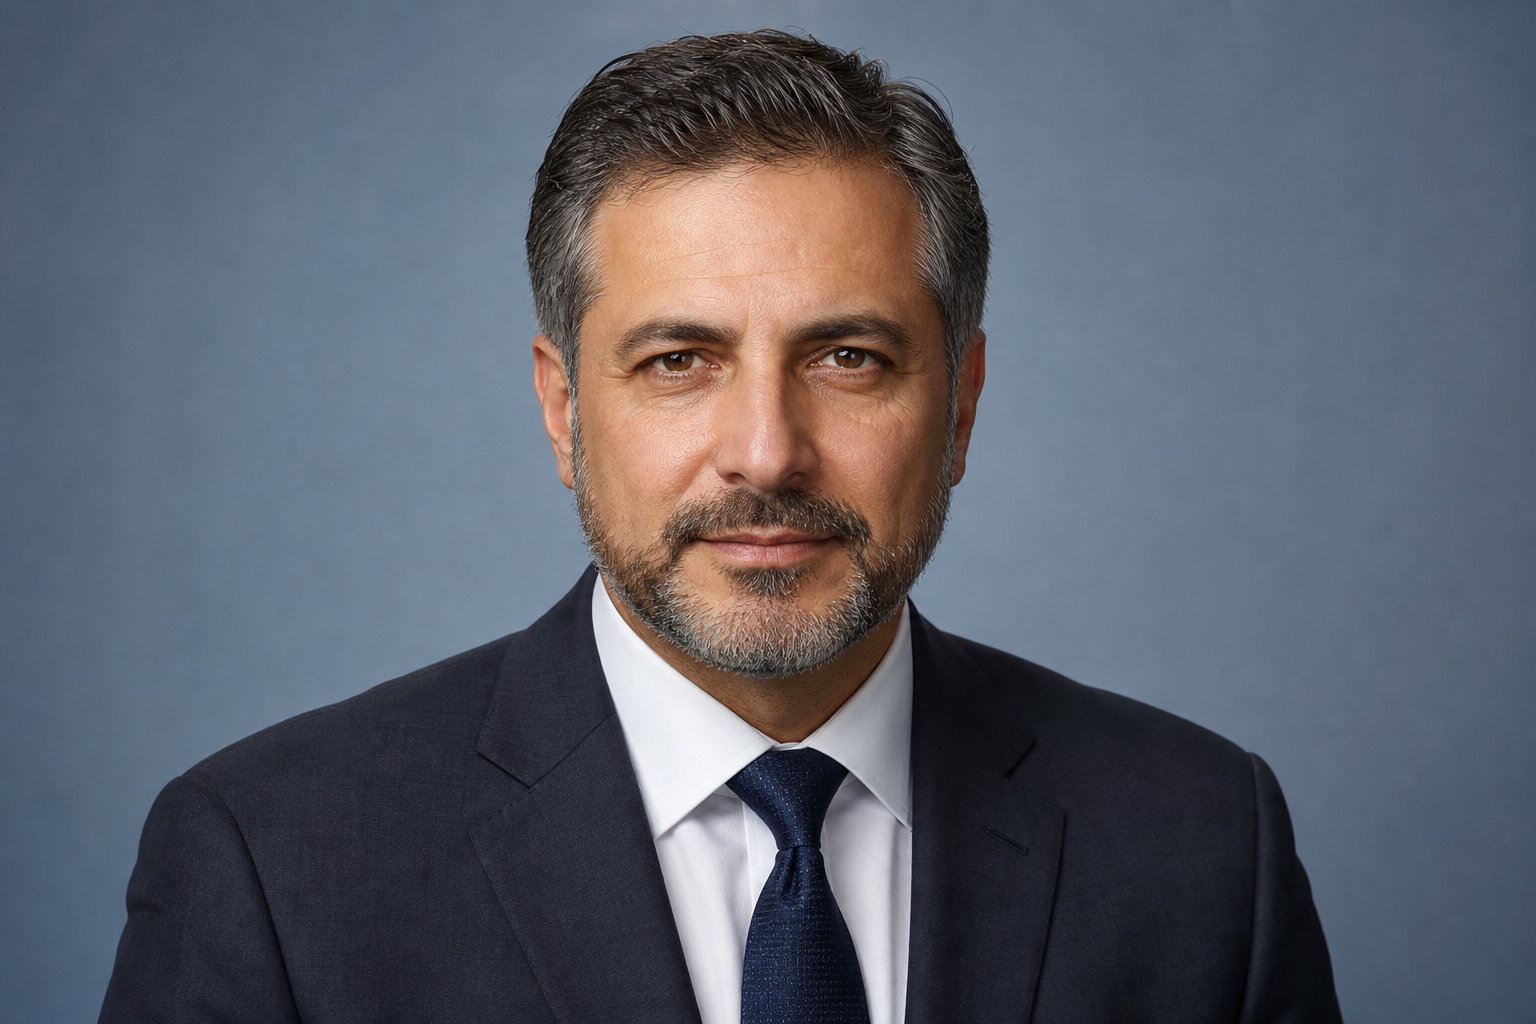
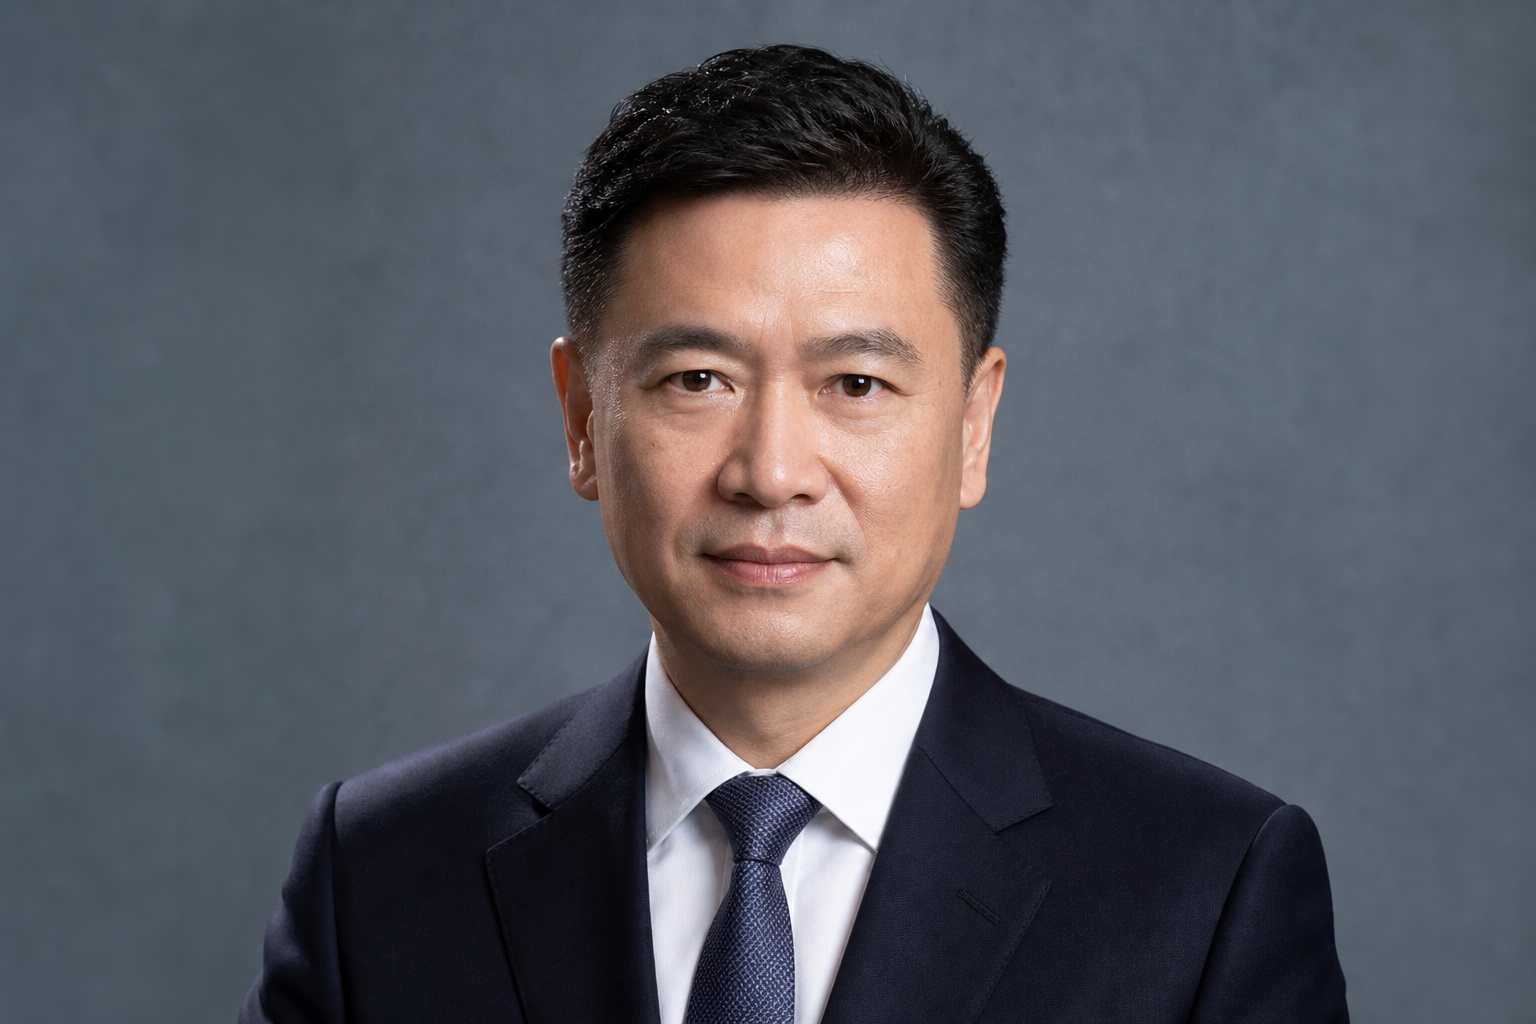
修复虚拟面试官：中文真人头像 + 稳定语音
替换为中国真人面试官照片，首屏直接显示照片并增强嘴部动效；关闭前端不稳定的流式 PCM 播放，统一使用稳定在线 TTS 避免噪声和音色切换。

diff --git a/面试页.html b/面试页.html
@@ -64,9 +64,18 @@
     @keyframes ivBreathe { 0%,100%{ transform:translateY(0) scale(1);} 50%{ transform:translateY(1.4px) scale(1.014);} }
     @keyframes ivNod { 0%,100%{ transform:translateY(0) rotate(0);} 42%{ transform:translateY(2.2px) rotate(.7deg);} 72%{ transform:translateY(.6px) rotate(-.5deg);} }
     @media (prefers-reduced-motion: reduce){ #ivBody, #ivAvatar.iv-speaking #ivHeadTop { animation:none; } }
-    /* 照片头像：呼吸在外层，说话时的“下颌律动”用内层 img 的 scaleY（音量驱动），两层叠加不冲突 */
+    /* 照片头像：呼吸在外层；嘴部叠层负责明显开合，避免整张照片轻微缩放导致“嘴没动”的错觉 */
     #ivPhotoWrap { transform-origin:50% 60%; animation: ivPhotoBreathe 4.6s ease-in-out infinite; will-change:transform; }
-    #ivPhoto { transform-origin:50% 18%; transition:transform .06s linear, filter .5s ease; }
+    #ivPhoto { transform-origin:50% 18%; transition:filter .5s ease; }
+    #ivMouthOverlay {
+      position:absolute; left:50%; top:51.5%; width:12.5%; height:4.2%;
+      transform:translate(-50%,-50%) scaleY(.08); transform-origin:50% 50%;
+      border-radius:999px; background:rgba(80,24,28,.62);
+      box-shadow:0 0 0 1px rgba(255,255,255,.16) inset, 0 2px 6px rgba(0,0,0,.12);
+      opacity:0; mix-blend-mode:multiply; transition:opacity .12s ease, transform .05s linear;
+      pointer-events:none;
+    }
+    #ivStageBox.iv-photo-speaking #ivMouthOverlay { opacity:.55; }
     #ivStageBox.iv-photo-thinking #ivPhoto { filter:brightness(.94) saturate(.92); }
     @keyframes ivPhotoBreathe { 0%,100%{ transform:translateY(0) scale(1.0);} 50%{ transform:translateY(-1px) scale(1.012);} }
     @media (prefers-reduced-motion: reduce){ #ivPhotoWrap { animation:none; } }
@@ -109,11 +118,12 @@
     <div class="relative flex flex-col items-center">
       <div id="speakerRing" class="absolute inset-0 rounded-full bg-indigo/20 speaking-ring hidden"></div>
       <div id="ivStageBox" class="interviewer-avatar relative rounded-full shadow-softlg border border-white/80 overflow-hidden">
-        <div id="ivPhotoWrap" class="absolute inset-0 hidden">
-          <img id="ivPhoto" alt="AI 面试官" class="w-full h-full object-cover" style="object-position:center 28%">
+        <div id="ivPhotoWrap" class="absolute inset-0">
+          <img id="ivPhoto" src="assets/interviewer_mentor.png" alt="AI 面试官" class="w-full h-full object-cover" style="object-position:center 28%">
           <div id="ivPhotoGlow" class="absolute inset-x-0 bottom-0 h-1/3 pointer-events-none" style="opacity:0;background:radial-gradient(ellipse at 50% 100%, rgba(99,102,241,.45), transparent 70%)"></div>
+          <div id="ivMouthOverlay"></div>
         </div>
-        <svg id="ivAvatar" viewBox="0 0 240 240" class="w-full h-full" aria-label="AI 面试官">
+        <svg id="ivAvatar" viewBox="0 0 240 240" class="w-full h-full" aria-label="AI 面试官" style="display:none">
           <defs>
             <clipPath id="ivClip"><circle cx="120" cy="120" r="120"/></clipPath>
             <linearGradient id="ivBg" x1="0" y1="0" x2="0" y2="1">
@@ -552,7 +562,7 @@ ${roleGuide ? roleGuide + '\n' : ''}
       const lidL=document.getElementById('ivLidL'), lidR=document.getElementById('ivLidR');
       const glow=document.getElementById('ivGlow');
       const box=document.getElementById('ivStageBox');
-      const photoWrap=document.getElementById('ivPhotoWrap'), photoImg=document.getElementById('ivPhoto'), photoGlow=document.getElementById('ivPhotoGlow');
+      const photoWrap=document.getElementById('ivPhotoWrap'), photoImg=document.getElementById('ivPhoto'), photoGlow=document.getElementById('ivPhotoGlow'), photoMouth=document.getElementById('ivMouthOverlay');
       const baseL={x:100,y:105}, baseR={x:140,y:105};
       let talkRAF=0, blinkTimer=0, gazeTimer=0, mode='idle';
       let usingPhoto=false, lastLevel=0, lastLevelTs=0;
@@ -561,15 +571,19 @@ ${roleGuide ? roleGuide + '\n' : ''}
       (function loadPhoto(){
         try{
           const key=(typeof roundKey!=='undefined' && ['mentor','leader','director','hr'].includes(roundKey)) ? roundKey : 'mentor';
-          photoImg.onload=()=>{ usingPhoto=true; photoWrap.classList.remove('hidden'); root.classList.add('opacity-0'); root.style.display='none'; };
-          photoImg.onerror=()=>{ usingPhoto=false; photoWrap.classList.add('hidden'); };
-          photoImg.src='assets/interviewer_'+key+'.png';
+          const src='assets/interviewer_'+key+'.png';
+          usingPhoto=true;
+          photoWrap.classList.remove('hidden');
+          root.style.display='none';
+          photoImg.onload=()=>{ usingPhoto=true; photoWrap.classList.remove('hidden'); root.style.display='none'; };
+          photoImg.onerror=()=>{ usingPhoto=false; photoWrap.classList.add('hidden'); root.style.display='block'; };
+          if(!photoImg.getAttribute('src') || !photoImg.getAttribute('src').includes('interviewer_'+key+'.png')) photoImg.src=src;
         }catch(e){ usingPhoto=false; }
       })();
 
       const setMouth=v=>{ if(mouth) mouth.style.transform='scaleY('+v.toFixed(3)+')'; };
-      const setPhotoTalk=v=>{ // v:0..1 → 轻微下颌起伏 + 嘴部柔光
-        if(photoImg) photoImg.style.transform='scaleY('+(1+v*0.018).toFixed(4)+')';
+      const setPhotoTalk=v=>{ // v:0..1 → 明显嘴部开合 + 轻微柔光，不再缩放整张照片
+        if(photoMouth) photoMouth.style.transform='translate(-50%,-50%) scaleY('+(0.12+v*1.65).toFixed(3)+')';
         if(photoGlow) photoGlow.style.opacity=(v*0.7).toFixed(3);
       };
       const setPupils=(dx,dy)=>{
@@ -607,6 +621,7 @@ ${roleGuide ? roleGuide + '\n' : ''}
         mode=m;
         root.classList.toggle('iv-speaking', m==='speaking');
         if(box) box.classList.toggle('iv-photo-thinking', m==='thinking');
+        if(box) box.classList.toggle('iv-photo-speaking', m==='speaking' && usingPhoto);
         if(glow){ glow.style.transition='opacity .5s ease'; glow.style.opacity = (m==='thinking') ? '0.5' : '0'; }
         if(m==='speaking'){ setPupils(0,0); startTalk(); clearTimeout(gazeTimer); }
         else { stopTalk(); }
@@ -624,8 +639,10 @@ ${roleGuide ? roleGuide + '\n' : ''}
     })();
 
     // ===== AI 语音播报 (TTS) =====
-    // 首选：CosyVoice 流式语音（边合成边播，首包 200-800ms）；失败回退 qwen3-tts-flash 单句合成；再失败回退浏览器朗读
-    // 按面试轮次选择与形象性别匹配的音色：stream=CosyVoice 音色，http=qwen 兜底音色
+    // 语音统一使用稳定在线 TTS；浏览器朗读只在在线 TTS 完全不可用时兜底，避免同一场出现两种音色。
+    // 注：上一版流式 PCM 在部分浏览器/音色下会先出噪声，因此先关闭前端直播放音，保留服务端能力以后再验证。
+    const ENABLE_STREAM_TTS = false;
+    // 按面试轮次选择与形象性别匹配的音色
     const ROUND_VOICE = {
       mentor:   { stream:'longcheng_v2',    http:'Ethan'   }, // 业务一面：男声
       leader:   { stream:'longxiaochun_v2', http:'Serena'  }, // 业务负责人：女声
@@ -682,6 +699,7 @@ ${roleGuide ? roleGuide + '\n' : ''}
     // 2.6s 内拿不到首个音频块 → 放弃返回 false，由调用方走单句兜底，避免体感卡顿。
     function ttsStreamSpeak(fullText, seq){
       return new Promise((resolve)=>{
+        if(!ENABLE_STREAM_TTS){ resolve(false); return; }
         if(!window.AIProxy || !AIProxy.ttsStreamUrl || !(window.AudioContext||window.webkitAudioContext)){ resolve(false); return; }
         let ws=null, ac=null, analyser=null, rafId=0, nextTime=0, leftover=null;
         let gotAudio=false, settled=false;
@@ -767,7 +785,7 @@ ${roleGuide ? roleGuide + '\n' : ''}
       return div;
     }
     // 文字立即打字机显示（不被语音合成阻塞），语音在后台逐句合成播放尽量与文字同步；TTS 全失败时回退浏览器朗读
-    const TTS_SENTENCE_WAIT_MS = 2500; // 单句在线 TTS 超过 2.5s 没回来 → 立即用本机朗读，避免体感卡顿
+    const TTS_SENTENCE_WAIT_MS = 6500; // 为保证音色一致，优先等待同一套在线 TTS；只在完全失败时才用本机兜底
     async function speakAndReveal(fullText){
       stopSpeaking();
       const seq = ttsSeq;
@@ -794,7 +812,7 @@ ${roleGuide ? roleGuide + '\n' : ''}
       anyVoice = await ttsStreamSpeak(fullText, seq);
       if(seq!==ttsSeq){ finalizeText(); avatar.setMode('listening'); return; } // 被用户打断
 
-      // ③ 流式不可用/失败 → 单句在线合成兜底：首句优先 + 后续并行预取，单句超时再用本机朗读
+      // ③ 流式关闭/不可用 → 单句在线合成兜底：首句优先 + 后续并行预取；不逐句切换浏览器音色
       if(!anyVoice){
         const sentences = splitSentences(fullText);
         const playAudioUrl=(url)=>new Promise(resolve=>{
@@ -811,10 +829,14 @@ ${roleGuide ? roleGuide + '\n' : ''}
           const url = await withTimeout(pending, TTS_SENTENCE_WAIT_MS, null);
           if(seq!==ttsSeq){ finalizeText(); avatar.setMode('listening'); return; }
           if(url){ anyVoice=true; await playAudioUrl(url); }
-          else { const ok = await speakBrowserSentence(sentences[i]); if(ok) anyVoice=true; } // 在线慢/失败 → 本机朗读这一句
+          else { console.warn('本句在线 TTS 超时或失败，跳过以保持音色一致', sentences[i]); }
         }
       }
       if(seq!==ttsSeq){ finalizeText(); avatar.setMode('listening'); return; }
+      if(!anyVoice){
+        await speakBrowserSentence(fullText); // 在线 TTS 完全不可用时，才整段用同一个本机音色兜底
+        anyVoice=true;
+      }
       finalizeText();
       setStage('轮到你回答', '点击麦克风开始作答。', false);
       avatar.setMode('listening');
